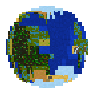
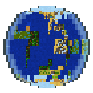
Started adding sky effects

diff --git a/modules/tools/data_managers/terrain_manager_template.py b/modules/tools/data_managers/terrain_manager_template.py
@@ -291,6 +291,7 @@ class world_handler:
                     input_dict["average_water_target"] = self.get_tuning(
                         "earth_average_water_target"
                     )
+                    input_dict["sky_color"] = self.get_tuning("earth_sky_color")
 
                 elif constants.effect_manager.effect_active("mars_preset"):
                     input_dict["name"] = "Mars"
@@ -340,6 +341,8 @@ class world_handler:
                     input_dict["average_water_target"] = self.get_tuning(
                         "mars_average_water_target"
                     )
+                    input_dict["sky_color"] = self.get_tuning("mars_sky_color")
+
                 elif constants.effect_manager.effect_active("venus_preset"):
                     input_dict["name"] = "Venus"
                     input_dict["rotation_direction"] = self.get_tuning(
@@ -388,6 +391,7 @@ class world_handler:
                     input_dict["average_water_target"] = self.get_tuning(
                         "venus_average_water_target"
                     )
+                    input_dict["sky_color"] = self.get_tuning("venus_sky_color")
                 else:
                     input_dict[
                         "name"
@@ -629,6 +633,9 @@ class world_handler:
                         input_dict["global_parameters"][constants.OXYGEN] = round(
                             input_dict["global_parameters"][constants.OXYGEN] / 2
                         )
+                    input_dict["sky_color"] = [
+                        random.randrange(0, 256) for _ in range(3)
+                    ]
             elif (
                 input_dict["grid_type"] == constants.EARTH_GRID_TYPE
             ):  # Replace with a series of grid_type constants
@@ -670,6 +677,8 @@ class world_handler:
                     input_dict["average_temperature"] * self.default_grid.area
                 )
                 input_dict["size"] = self.earth_size
+                input_dict["sky_color"] = self.get_tuning("earth_sky_color")
+            input_dict["default_sky_color"] = input_dict["sky_color"].copy()
 
         input_dict["global_parameters"][constants.INERT_GASES] = round(
             input_dict["global_parameters"][constants.INERT_GASES], 1
@@ -714,6 +723,8 @@ class world_handler:
         self.global_parameters: Dict[str, int] = {}
         for key in constants.global_parameters:
             self.set_parameter(key, input_dict.get("global_parameters", {}).get(key, 0))
+        self.sky_color = input_dict["sky_color"]
+        self.default_sky_color = input_dict["default_sky_color"]
 
         """
         15 x 15 grid has north pole 0, 0 and south pole 7, 7
@@ -853,7 +864,7 @@ class world_handler:
             None
         """
         self.set_parameter(
-            parameter_name, self.terrain_parameters[parameter_name] + change
+            parameter_name, self.global_parameters[parameter_name] + change
         )
 
     def set_parameter(self, parameter_name: str, new_value: int) -> None:
@@ -875,11 +886,15 @@ class world_handler:
             constants.TOXIC_GASES,
         ]:
             self.update_pressure()
+            self.update_sky_color()
 
         if status.displayed_tile:
             actor_utility.calibrate_actor_info_display(
                 status.tile_info_display, status.displayed_tile
             )
+        for mob in status.mob_list:
+            if mob.get_cell() and mob.get_cell().grid.world_handler == self:
+                mob.update_habitability()
 
     def update_pressure(self) -> None:
         self.global_parameters[constants.PRESSURE] = sum(
@@ -893,6 +908,9 @@ class world_handler:
                 ]
             ]
         )
+
+    def update_sky_color(self) -> None:
+        pass
 
     def get_parameter(self, parameter_name: str) -> int:
         """
@@ -937,6 +955,8 @@ class world_handler:
             "rotation_direction": self.rotation_direction,
             "rotation_speed": self.rotation_speed,
             "name": self.name,
+            "sky_color": self.sky_color,
+            "default_sky_color": self.default_sky_color,
         }
 
     def generate_green_screen(self) -> Dict[str, Dict[str, any]]:
@@ -1128,6 +1148,19 @@ class world_handler:
                 return self.default_grid.area * 6 * self.get_tuning("earth_pressure")
         else:
             return self.get_tuning(f"earth_{parameter_name}")
+
+    def get_pressure_ratio(self) -> float:
+        """
+        Description:
+            Returns the ratio of the current pressure to the ideal pressure
+        Input:
+            None
+        Output:
+            float: Ratio of the current pressure to the ideal pressure
+        """
+        return self.get_parameter(constants.PRESSURE) / self.get_ideal_parameter(
+            constants.PRESSURE
+        )
 
     def calculate_parameter_habitability(self, parameter_name: str) -> int:
         """
@@ -1367,8 +1400,9 @@ class terrain_handler:
             int: Returns habitability of this tile for the inputted unit
         """
         if (
-            self.get_world_handler() == status.globe_projection_grid.world_handler
+            self.attached_cells[0].grid == status.globe_projection_grid
         ):  # If in orbit of planet
+            self.get_world_handler() == status.globe_projection_grid.world_handler
             default_habitability = constants.HABITABILITY_DEADLY
         else:
             default_habitability = min(
@@ -1524,6 +1558,9 @@ class terrain_handler:
                     actor_utility.calibrate_actor_info_display(
                         status.tile_info_display, cell.tile
                     )
+        for mob in status.mob_list:
+            if mob.get_cell() and mob.get_cell().terrain_handler == self:
+                mob.update_habitability()
 
     def has_snow(self) -> bool:
         """

diff --git a/modules/interface_types/world_grids.py b/modules/interface_types/world_grids.py
@@ -1081,7 +1081,11 @@ class world_grid(grid):
             ):  # For center offset, just draw a straight vertical latitude line
                 current_line = latitude_lines[index]
                 return_list += self.draw_latitude_line(
-                    current_line, largest_size, level=offset + 20
+                    current_line,
+                    largest_size,
+                    level=offset + 20,
+                    offset=offset,
+                    offset_width=offset_width,
                 )
             else:  # For non-center offsets, draw symmetrical curved latitude lines, progressively farther from center
                 longitude_bulge_factor = (offset / offset_width) ** 0.5
@@ -1092,6 +1096,8 @@ class world_grid(grid):
                     longitude_bulge_factor=longitude_bulge_factor,
                     level=offset + 20,
                     min_width=min_width,
+                    offset=offset,
+                    offset_width=offset_width,
                 )
 
                 return_list += self.draw_latitude_line(
@@ -1100,6 +1106,8 @@ class world_grid(grid):
                     longitude_bulge_factor=-1 * longitude_bulge_factor,
                     level=(-1 * offset) + 20,
                     min_width=min_width,
+                    offset=offset,
+                    offset_width=offset_width,
                 )
         return return_list
 
@@ -1110,6 +1118,8 @@ class world_grid(grid):
         longitude_bulge_factor: float = 0.0,
         level: int = 0,
         min_width: bool = False,
+        offset: int = 0,
+        offset_width: int = 0,
     ):
         """
         Description:
@@ -1253,6 +1263,46 @@ class world_grid(grid):
                     image_id = {"image_id": image_id}
                 image_id.update(projection)
                 return_list.append(image_id)
+
+            if (
+                self.world_handler.get_pressure_ratio() > 50.0
+            ):  # If very high pressure, have sky effects for all latitude lines
+                threshold = max_latitude_line_length
+            elif (
+                self.world_handler.get_pressure_ratio() > 10.0
+            ):  # If high pressure, also have sky effects for 3rd farthest latitude line
+                threshold = 3
+            else:  # If normal or low pressure, only have sky effects for 2nd farthest latitude line
+                threshold = 2
+            if (
+                offset_width - offset <= threshold and not min_width
+            ):  # If 2nd farthest latitude line
+                sky_effect = {
+                    "image_id": "misc/green_screen_base.png",
+                    "green_screen": tuple(self.world_handler.sky_color),
+                }
+                sky_effect.update(projection)
+                sky_effect["level"] += 10
+                if threshold <= 3 or abs(longitude_bulge_factor) > 0.5:
+                    sky_effect["x_size"] *= 0.4
+
+                sky_effect["alpha"] = 75
+                if offset != 0:
+                    x_offset_magnitude = 0.02
+                    if max_latitude_line_length <= constants.map_size_options[1]:
+                        x_offset_magnitude *= 1.6
+                    elif max_latitude_line_length >= constants.map_size_options[5]:
+                        x_offset_magnitude *= 2.0
+                    else:
+                        x_offset_magnitude *= 1.6
+                    x_offset += x_offset_magnitude * (
+                        1 if longitude_bulge_factor >= 0 else -1
+                    )  # Shift right if on right side and vice versa
+                    sky_effect["x_offset"] = (
+                        center_position[0] + x_offset
+                    ) * size_multiplier
+
+                return_list.append(sky_effect)
         return return_list
 
     def get_next_unaccounted_coordinates(

diff --git a/Second_Earth.py b/Second_Earth.py
@@ -155,7 +155,7 @@ except Exception:  # Displays error message and records error message in crash l
             Suits/buildings need to be shielded enough to block the remaining radiation not blocked by global/local shielding
 
     Magnetic field
-        Based on magnetic field strength, 0
+        Based on magnetic field strength
         Magnetic field blocks some amount of incoming radiation
         Any unblocked radiation reaches tiles and causes a solar wind effect
         Solar wind removes a small amount of each gas each turn
@@ -194,6 +194,12 @@ except Exception:  # Displays error message and records error message in crash l
         Show sky as a transparent ring around the perimeter of the globe projection, and show clouds both on the projection and optionally on the tile map
             Mars has slight sky effect but no clouds due to low atmosphere, Venus is fully covered, Luna has no sky effect or clouds
         Additionally, the sky color largely determines the water color
+            As atmosphere approaches 0, water color approaches space color or ground color, for deep water and shallow water, respectively
+            For thicker atmosphere, sky color will be some random color based on composition, getting closer to Earth as atmosphere approaches earth-like composition
+            For very thick atmospheres, sky effect should approach that of Venus
+        When displaying clouds, have ~6 custom cloud images that are overlayed by picking 2
+            Cloud frequency should be based on the amount of liquid water in the tile and nearby tiles (or just average water?)
+            Change clouds at end of turn and while globes are spinning
 
 6. Add alien vegetation
 7. Add alien animals
@@ -252,8 +258,13 @@ except Exception:  # Displays error message and records error message in crash l
 # Various resolution issues, particularly with tall resolutions
 # Add manually created Earth map - should look similar to the UN flag, with a north pole projection
 # Transcribe Super-Earth planet names from https://science.nasa.gov/exoplanets/exoplanet-catalog/?pageno=1&planet_type=Super+Earth&content_list=true
+# God mode changes to make habitabilty deadly/not deadly not correctly calibrating reorganization projection of ship crew - fix if ever relevant outside of god mode
+# Maybe track when tiles change habitability, as well as display habitability mode
 
 # Upcoming work queue:
+# Continue adding sky effects
+# Add cloud effects
+# Add local brightness effect based on altitude
 # Add spacesuits image have helmeted/helmetless versions depending on if unit is outside
 # Add modern minister outfits
 # Add astronauts art
@@ -270,6 +281,8 @@ except Exception:  # Displays error message and records error message in crash l
 # Add altitude effect to local pressure
 # Add new notes from Second Earth notes folder
 # Possibly add global interface that appears when nothing is selected, showing global conditions
+# Learn how to use Python script to process earth projection images
+# Correctly update water and atmosphere colors based on current composition compared to initial and Earth
 #
 # Fix this rare crash
 # ERROR:root:<class 'Exception'>

diff --git a/modules/actor_display_tools/buttons.py b/modules/actor_display_tools/buttons.py
@@ -1816,9 +1816,19 @@ class change_parameter_button(button):
             None
         """
         if main_loop_utility.action_possible():
-            self.attached_label.actor.cell.terrain_handler.change_parameter(
-                self.attached_label.actor_label_type.removesuffix("_label"), self.change
-            )
+            if (
+                self.attached_label.actor_label_type.removesuffix("_label")
+                in constants.global_parameters
+            ):
+                self.attached_label.actor.cell.grid.world_handler.change_parameter(
+                    self.attached_label.actor_label_type.removesuffix("_label"),
+                    self.change,
+                )
+            else:
+                self.attached_label.actor.cell.terrain_handler.change_parameter(
+                    self.attached_label.actor_label_type.removesuffix("_label"),
+                    self.change,
+                )
         else:
             text_utility.print_to_screen(
                 "You are busy and cannot change this parameter."

diff --git a/modules/actor_display_tools/labels.py b/modules/actor_display_tools/labels.py
@@ -517,6 +517,22 @@ class actor_display_label(label):
                     )
                     + ": "
                 )
+            if self.actor_label_type.removesuffix("_label") in [
+                constants.OXYGEN,
+                constants.GHG,
+                constants.INERT_GASES,
+                constants.TOXIC_GASES,
+            ] and constants.effect_manager.effect_active("god_mode"):
+                input_dict["init_type"] = constants.CHANGE_PARAMETER_BUTTON
+                input_dict["width"], input_dict["height"] = (s_size, s_size)
+
+                input_dict["change"] = -1
+                input_dict["image_id"] = "buttons/cycle_ministers_down_button.png"
+                self.add_attached_button(input_dict)
+
+                input_dict["change"] = 1
+                input_dict["image_id"] = "buttons/cycle_ministers_up_button.png"
+                self.add_attached_button(input_dict)
 
         elif self.actor_label_type == constants.BANNER_LABEL:
             self.message_start = self.banner_text

diff --git a/modules/main_loop.py b/modules/main_loop.py
@@ -261,7 +261,7 @@ def main_loop():
                     )
                     if constants.effect_manager.effect_active("save_global_projection"):
                         pygame.image.save(
-                            status.globe_projection_grid.find_cell(0, 0).tile.image,
+                            status.globe_projection_surface.convert_alpha(),
                             f"save_games/globe_rotations/{constants.TIME_PASSING_EARTH_ROTATIONS}.png",
                         )
                     if status.strategic_map_grid.world_handler.rotation_speed > 2:

diff --git a/modules/tools/data_managers/save_load_manager_template.py b/modules/tools/data_managers/save_load_manager_template.py
@@ -162,7 +162,8 @@ class save_load_manager_template:
 
         if constants.effect_manager.effect_active("save_global_projection"):
             pygame.image.save(
-                status.globe_projection_surface, "save_games/globe_projection.png"
+                status.globe_projection_surface.convert_alpha(),
+                "save_games/globe_projection.png",
             )
 
         status.transaction_history = constants.money_tracker.transaction_history

diff --git a/modules/constructs/images.py b/modules/constructs/images.py
@@ -549,6 +549,8 @@ class bundle_image:
             if self.pixellated:
                 non_pixellated_key = key
                 key += "pixellated"
+            if self.alpha != 255:
+                key += str(self.alpha)
         if key in status.cached_images:  # if image already loaded, use it
             self.image = status.cached_images[key]
         else:  # If image not loaded, load it and add it to the loaded images

diff --git a/modules/constants/constants.py b/modules/constants/constants.py
@@ -592,7 +592,7 @@ update_terrain_knowledge_requirements()
 UNIQUE_FEATURE_TRACKING: str = "unique"
 LIST_FEATURE_TRACKING: str = "list"
 
-MAP_MODE_ALPHA: int = 0  # 170
+MAP_MODE_ALPHA: int = 255
 
 SETTLEMENT_PANEL: str = "settlement_panel"
 LOCAL_CONDITIONS_PANEL: str = "local_conditions_panel"
